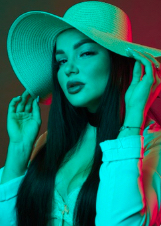
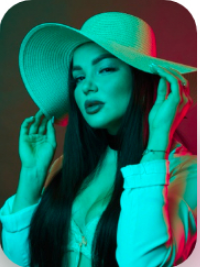
modified

diff --git a/lib/screens/second_screen.dart b/lib/screens/second_screen.dart
@@ -1,0 +1,224 @@
+import 'dart:ui';
+import 'package:flutter/material.dart';
+import 'package:ui_task_1/sample_data.dart';
+import 'package:ui_task_1/custom/border_icon.dart';
+import 'package:ui_task_1/utils/constants.dart';
+import 'package:ui_task_1/utils/widget_functions.dart';
+
+class SecondScreen extends StatelessWidget {
+  const SecondScreen({Key? key}) : super(key: key);
+
+  @override
+  Widget build(BuildContext context) {
+    final ThemeData themeData = Theme.of(context);
+    final sizeOfScreen = MediaQuery.of(context).size;
+
+    return SafeArea(
+      child: Scaffold(
+        body: Stack(
+          children: [
+            // photo
+            Image.asset(
+              FA_SECOND_PAGE_DATA["image"]!,
+              height: sizeOfScreen.height,
+              width: sizeOfScreen.width,
+              fit: BoxFit.cover,
+            ),
+            //everything else
+            Column(
+              children: [
+                addVerticalSpace(15),
+                Row(
+                  mainAxisAlignment: MainAxisAlignment.spaceBetween,
+                  children: const [
+                    Padding(
+                      padding: EdgeInsets.symmetric(horizontal: 12),
+                      child: BorderIcon(
+                          child: Icon(Icons.arrow_back_ios_rounded,
+                              color: COLOR_WHITE),
+                          height: 30,
+                          width: 30),
+                    ),
+                    Padding(
+                      padding: EdgeInsets.symmetric(horizontal: 12),
+                      child: BorderIcon(
+                          child:
+                              Icon(Icons.more_vert_rounded, color: COLOR_WHITE),
+                          height: 30,
+                          width: 30),
+                    ),
+                  ],
+                ),
+                addVerticalSpace(80),
+                Column(
+                  children: [
+                    Padding(
+                      padding: const EdgeInsets.fromLTRB(15, 0, 15, 10),
+                      child: Align(
+                        alignment: Alignment.centerLeft,
+                        child: ProfileInfo(
+                          child: const Icon(Icons.message_outlined,
+                              color: COLOR_WHITE),
+                          text: FA_SECOND_PAGE_DATA["messages count"]!,
+                          height: 30,
+                          width: 30,
+                        ),
+                      ),
+                    ),
+                    Padding(
+                      padding: const EdgeInsets.fromLTRB(15, 0, 15, 10),
+                      child: Align(
+                        alignment: Alignment.centerLeft,
+                        child: ProfileInfo(
+                          child: const Icon(Icons.favorite_border,
+                              color: COLOR_WHITE),
+                          text: FA_SECOND_PAGE_DATA["likes count"]!,
+                          height: 30,
+                          width: 30,
+                        ),
+                      ),
+                    ),
+                    Padding(
+                      padding: const EdgeInsets.fromLTRB(15, 0, 15, 10),
+                      child: Align(
+                        alignment: Alignment.centerLeft,
+                        child: ProfileInfo(
+                          child: const Icon(Icons.watch_later_outlined,
+                              color: COLOR_WHITE),
+                          text: FA_SECOND_PAGE_DATA["watched count"]!,
+                          height: 30,
+                          width: 30,
+                        ),
+                      ),
+                    )
+                  ],
+                ),
+                addVerticalSpace(215),
+                Stack(
+                  children: [
+                    Padding(
+                      padding: const EdgeInsets.symmetric(horizontal: 15.0),
+                      child: ClipRRect(
+                        borderRadius: BorderRadius.circular(35.0),
+                        child: BackdropFilter(
+                          filter: ImageFilter.blur(sigmaX: 8, sigmaY: 8),
+                          child: Container(
+                            height: 200,
+                            color: COLOR_GREY.withOpacity(0.5),
+                            child: Padding(
+                              padding: const EdgeInsets.fromLTRB(8, 15, 8, 15),
+                              child: Column(
+                                children: [
+                                  Align(
+                                    alignment: Alignment.centerLeft,
+                                    child: Padding(
+                                      padding: const EdgeInsets.fromLTRB(
+                                          15, 10, 0, 0),
+                                      child: Text(
+                                        FA_SECOND_PAGE_DATA["name"]!,
+                                        style: themeData.textTheme.headline2,
+                                      ),
+                                    ),
+                                  ),
+                                  addVerticalSpace(20),
+                                  Align(
+                                      alignment: Alignment.centerLeft,
+                                      child: Padding(
+                                        padding: const EdgeInsets.symmetric(
+                                            horizontal: 15),
+                                        child: Text(
+                                          FA_SECOND_PAGE_DATA["info"]!,
+                                          style: themeData.textTheme.headline3,
+                                        ),
+                                      ))
+                                ],
+                              ),
+                            ),
+                          ),
+                        ),
+                      ),
+                    ),
+                    Positioned(
+                        bottom: 15,
+                        right: 35,
+                        child: ClipRRect(
+                          borderRadius: const BorderRadius.only(
+                            topLeft: Radius.circular(20),
+                            topRight: Radius.circular(20),
+                            bottomRight: Radius.circular(20),
+                          ),
+                          child: Container(
+                            color: COLOR_RED.shade900,
+                            child: Padding(
+                              padding: const EdgeInsets.all(10.0),
+                              child: Row(
+                                children: [
+                                  addHorizontalSpace(5),
+                                  Text(
+                                    "Follow",
+                                    style: themeData.textTheme.headline4,
+                                  ),
+                                  addHorizontalSpace(10),
+                                  Container(
+                                    decoration: const BoxDecoration(
+                                        color: COLOR_WHITE,
+                                        shape: BoxShape.circle),
+                                    child: const Padding(
+                                      padding: EdgeInsets.all(3.0),
+                                      child: Icon(
+                                        Icons.add,
+                                        color: COLOR_BLACK,
+                                        size: 12,
+                                      ),
+                                    ),
+                                  ),
+                                  addHorizontalSpace(3),
+                                ],
+                              ),
+                            ),
+                          ),
+                        ))
+                  ],
+                ),
+              ],
+            ),
+          ],
+        ),
+      ),
+    );
+  }
+}
+
+class ProfileInfo extends StatelessWidget {
+  final Widget child;
+  final double height, width;
+  final String text;
+
+  const ProfileInfo(
+      {Key? key,
+      required this.child,
+      required this.height,
+      required this.width,
+      required this.text})
+      : super(key: key);
+
+  @override
+  Widget build(BuildContext context) {
+    final ThemeData themeData = Theme.of(context);
+
+    return SizedBox(
+      width: width,
+      child: Column(
+        children: [
+          BorderIcon(child: child, height: height, width: width),
+          Center(
+            child: Text(
+              text,
+              style: themeData.textTheme.headline1,
+            ),
+          )
+        ],
+      ),
+    );
+  }
+}

diff --git a/lib/utils/constants.dart b/lib/utils/constants.dart
@@ -10,7 +10,9 @@ const COLOR_GREY = Colors.grey;
 
 const COLOR_PURPLE = Color.fromRGBO(103, 65, 209, 100);
 
-const TextTheme DEFAULT_TEXT_THEME = TextTheme(
+const COLOR_RED = Colors.red;
+
+const TextTheme TEXT_THEME_FIRST_PAGE = TextTheme(
     // for Week in Paris
     headline1: TextStyle(
         fontFamily: "RadioCanada",
@@ -47,3 +49,30 @@ const TextTheme DEFAULT_TEXT_THEME = TextTheme(
         color: COLOR_BLACK,
         fontWeight: FontWeight.w500,
         fontSize: 15));
+
+const TextTheme TEXT_THEME_SECOND_PAGE = TextTheme(
+  // for messages, likes, watched counts
+  headline1: TextStyle(
+      fontFamily: "RadioCanada",
+      color: COLOR_WHITE,
+      fontWeight: FontWeight.w600,
+      fontSize: 12),
+  // name
+  headline2: TextStyle(
+      fontFamily: "RadioCanada",
+      color: COLOR_WHITE,
+      fontWeight: FontWeight.bold,
+      fontSize: 24),
+  // info
+  headline3: TextStyle(
+      fontFamily: "RadioCanada",
+      color: COLOR_WHITE,
+      fontWeight: FontWeight.w500,
+      fontSize: 14),
+  // Follow
+  headline4: TextStyle(
+      fontFamily: "RadioCanada",
+      color: COLOR_WHITE,
+      fontWeight: FontWeight.w800,
+      fontSize: 14),
+);

diff --git a/lib/screens/main_screen.dart b/lib/screens/main_screen.dart
@@ -1,5 +1,3 @@
-import 'package:flutter/cupertino.dart';
-
 import 'package:flutter/material.dart';
 import 'package:ui_task_1/custom/border_icon.dart';
 import 'package:ui_task_1/sample_data.dart';
@@ -104,8 +102,8 @@ class MainScreen extends StatelessWidget {
             child: Row(
               mainAxisAlignment: MainAxisAlignment.spaceEvenly,
               children: [
-                PersonItem(itemData: FA_DATA[0]),
-                PersonItem(itemData: FA_DATA[1])
+                PersonItem(itemData: FA_MAIN_PAGE_DATA[0]),
+                PersonItem(itemData: FA_MAIN_PAGE_DATA[1])
               ],
             ),
           ),
@@ -125,7 +123,7 @@ class MainScreen extends StatelessWidget {
               child: ClipRRect(
                 borderRadius: BorderRadius.circular(25),
                 child: Image.asset(
-                  FA_DATA[2]["image"]!,
+                  FA_MAIN_PAGE_DATA[2]["image"]!,
                   fit: BoxFit.cover,
                 ),
               ),

diff --git a/lib/main.dart b/lib/main.dart
@@ -1,5 +1,6 @@
 import 'package:flutter/material.dart';
 import 'package:ui_task_1/screens/main_screen.dart';
+import 'package:ui_task_1/screens/second_screen.dart';
 import 'package:ui_task_1/utils/constants.dart';
 
 class Main extends StatelessWidget {
@@ -8,9 +9,11 @@ class Main extends StatelessWidget {
   @override
   Widget build(BuildContext context) {
     return MaterialApp(
-      theme:
-          ThemeData(primaryColor: COLOR_WHITE, textTheme: DEFAULT_TEXT_THEME),
-      home: MainScreen(),
+      // theme: ThemeData(
+      //     primaryColor: COLOR_WHITE, textTheme: TEXT_THEME_FIRST_PAGE),
+      // home: MainScreen(),
+      theme: ThemeData(textTheme: TEXT_THEME_SECOND_PAGE),
+      home: const SecondScreen(),
     );
   }
 }

diff --git a/lib/sample_data.dart b/lib/sample_data.dart
@@ -1,4 +1,4 @@
-const FA_DATA = [
+const FA_MAIN_PAGE_DATA = [
   {
     "image": "assets/images/ui_task_1_1.png",
     "name": "Niketa William",
@@ -13,3 +13,13 @@ const FA_DATA = [
     "image": "assets/images/ui_task_1_3.png",
   }
 ];
+
+const FA_SECOND_PAGE_DATA = {
+  "image": "assets/images/ui_task_1_4.jpg",
+  "messages count": "3",
+  "likes count": "579",
+  "watched count": "18",
+  "name": "Milla Jovovich",
+  "info": "Milla Jovovich is an Italian Model with impressive portfolio." +
+      "And was the best model and ramp walk in 2018. She is famous because of her different colorful styles."
+};

diff --git a/lib/custom/border_icon.dart b/lib/custom/border_icon.dart
@@ -20,7 +20,6 @@ class BorderIcon extends StatelessWidget {
         width: width,
         height: height,
         decoration: const BoxDecoration(
-          color: COLOR_WHITE,
           borderRadius: BorderRadius.all(Radius.circular(15.0)),
         ),
         child: Center(
